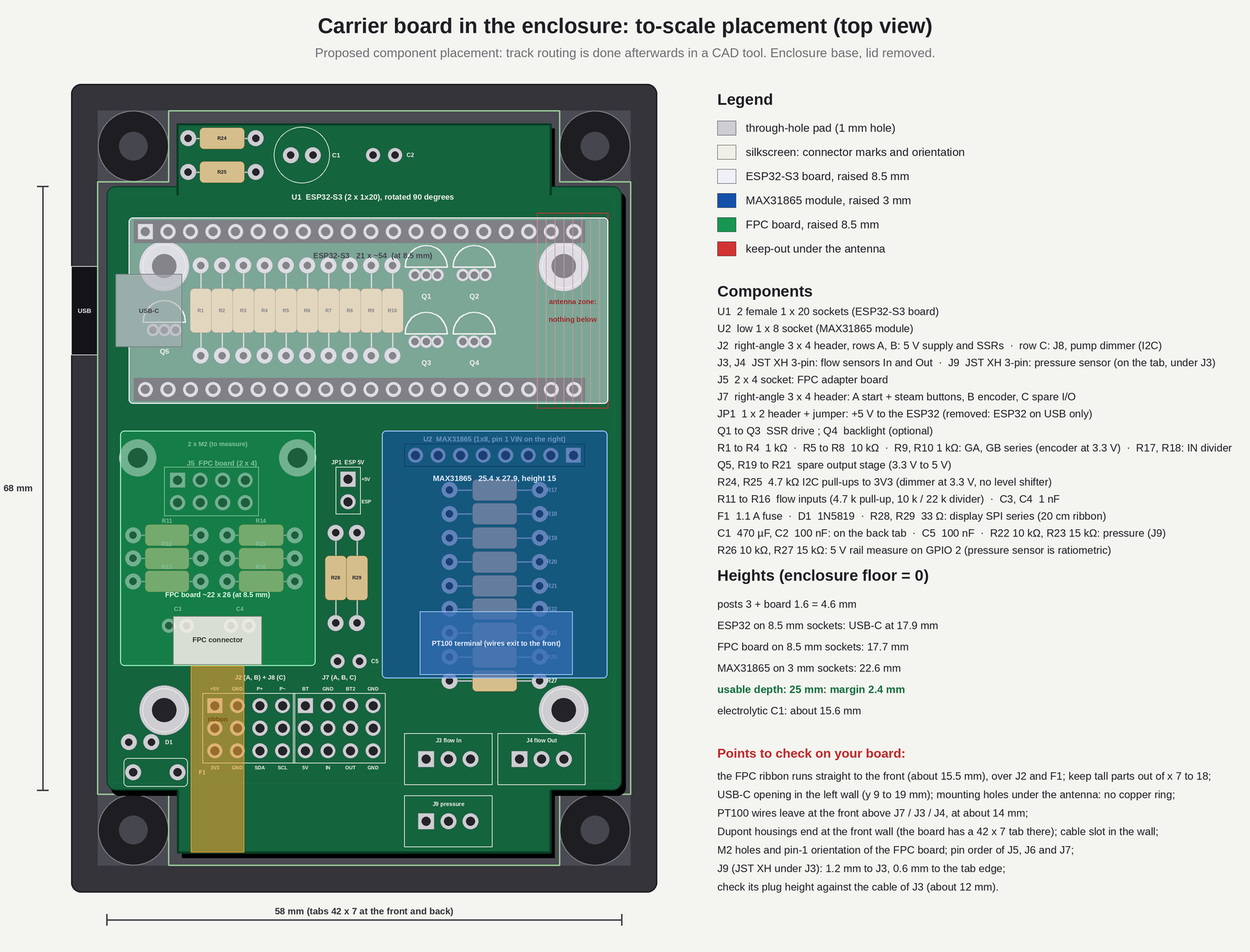
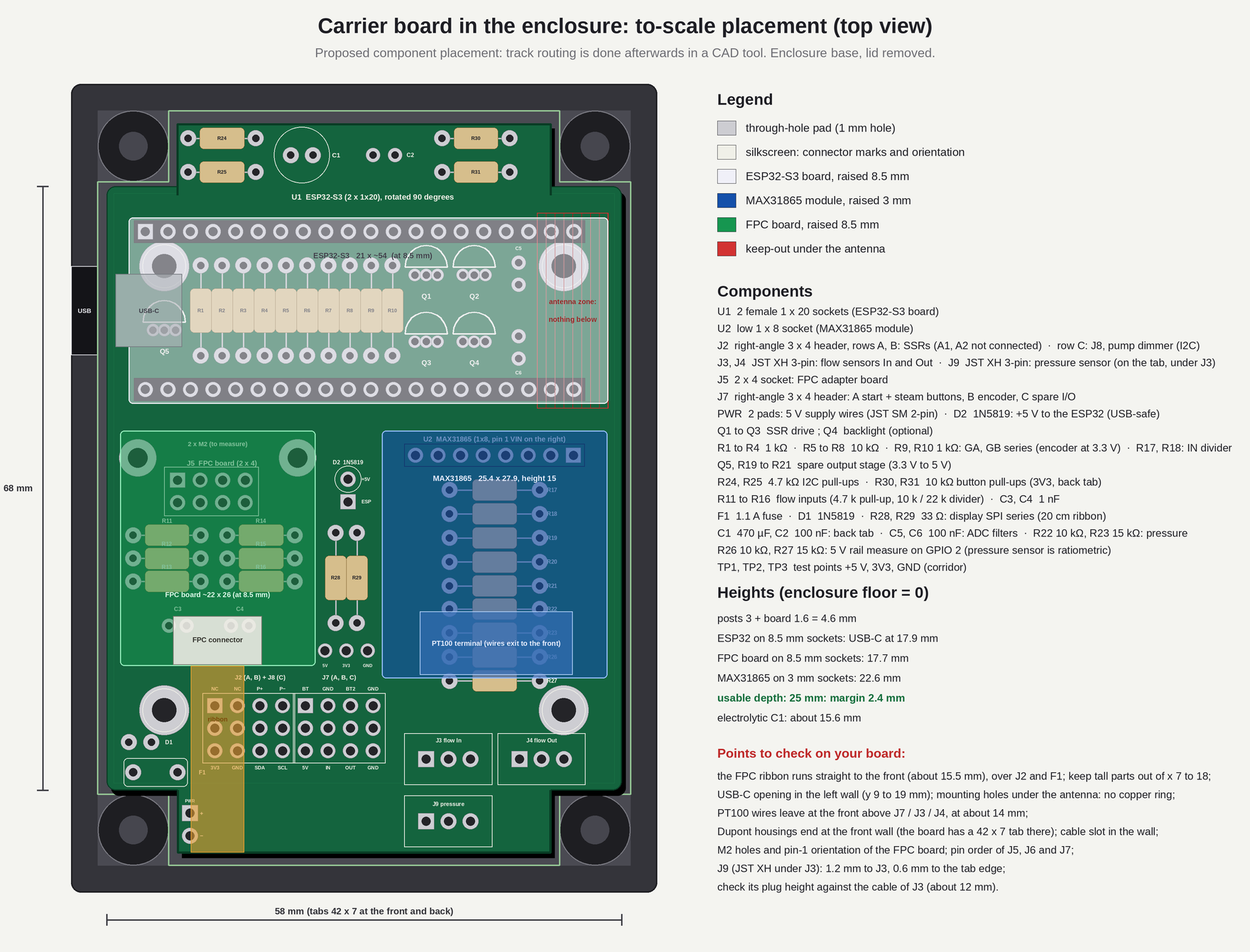
Supply on soldered wires (PWR pads, JST SM 2-pin), J2 A1/A2 not connected; D2 diode replaces JP1 (USB-safe); C5/C6 ADC filters next to GPIO 1/2; R30/R31 button pull-ups; test points TP1-TP3
Claude-Session: https://claude.ai/code/session_012AnZeUFZeKvHXGUDRfJG7Q

diff --git a/tools/board_placement.py b/tools/board_placement.py
@@ -128,6 +128,10 @@ for i, name in enumerate(["R1", "R2", "R3", "R4", "R5", "R6", "R7", "R8", "R9", 
 # Q1..Q4: TO-92 bodies are 4.8 mm wide, so two rows of two (pitch 5.4 mm), clear of R10 and of the antenna zone
 for name, (qx, qy) in zip(["Q1", "Q2", "Q3", "Q4"], [(36.0, 10.0), (41.4, 10.0), (36.0, 17.5), (41.4, 17.5)]):
     to92(qx, qy, name)
+# C5 / C6 100 nF (filters of the ADC inputs GPIO 1 / GPIO 2), standing right of Q2 / Q4, next to the GPIO 1 / 2 pins, just outside the antenna keep-out
+for yc in (9.85, 18.15):
+    tpad(46.4, yc - 1.25, ring=1.6, drill=0.8); tpad(46.4, yc + 1.25, ring=1.6, drill=0.8)
+text(d, X(46.4), Y(7.0), "C5", 7, SILK, True); text(d, X(46.4), Y(21.0), "C6", 7, SILK, True)
 # spare I/O conditioning, flat resistors under the MAX31865 (3 mm clearance): R17 4.7 k + R18 10 k (input divider), R19 1 k base, R20 4.7 k pull-up to 5 V, R21 10 k base to GND
 for i, name in enumerate(["R17", "R18", "R19", "R20", "R21"]):
     axial(43.7, 34.2 + i * 2.7, pitch=10.16, label=None)
@@ -179,14 +183,14 @@ for i, (name, xa) in enumerate([("C3", 7.0), ("C4", 14.0)]):
 # ---------------------------------------------------------------- front strip: J2 (2x4), J7 (1x6), polyfuse, diode, electrolytic, XH x2
 # Front edge: every right-angle header has its Dupont housings plugged in towards the front (about 9 mm of keep-out in front of the pads).
 # J2 + J8: 3 x 4 right-angle header (three stacked rows of Dupont housings, "courbe" 3 x 40 strip cut to length). From the back of the
-# board: row A (+5 V, GND, pump) and row B (boiler, valve) are J2; row C, the lowest one, is J8 (pump dimmer, I2C), bare for now.
+# board: row A (pump; A1, A2 not connected: the 5 V supply comes on the PWR pads) and row B (boiler, valve) are J2; row C, the lowest one, is J8 (pump dimmer, I2C), bare for now.
 ROWS = [58.5, 61.04, 63.58]
 for r_ in range(3):
     for c_ in range(4):
         tpad(12.2 + c_ * 2.54, ROWS[r_], square=(r_ == 0 and c_ == 0), ring=1.7, drill=1.0)
 rect(d, X(12.2) - 1.4 * K, Y(ROWS[0]) - 1.4 * K, X(12.2 + 3 * 2.54) + 1.4 * K, Y(ROWS[2]) + 1.4 * K, outline=SILK + (255,), width=2)
 silk(17.3, 55.3, "J2 (A, B) + J8 (C)", 9)
-for c_, lab in enumerate(["+5V", "GND", "P+", "P−"]):
+for c_, lab in enumerate(["NC", "NC", "P+", "P−"]):
     text(d, X(12.2 + c_ * 2.54), Y(ROWS[0]) - 1.9 * K, lab, 7, SILK, True)
 for c_, lab in enumerate(["3V3", "GND", "SDA", "SCL"]):
     text(d, X(12.2 + c_ * 2.54), Y(ROWS[2]) + 1.9 * K, lab, 7, SILK, True)
@@ -200,29 +204,39 @@ for c_, lab in enumerate(["BT", "GND", "BT2", "GND"]):
     text(d, X(22.4 + c_ * 2.54), Y(ROWS[0]) - 1.9 * K, lab, 7, SILK, True)
 for c_, lab in enumerate(["5V", "IN", "OUT", "GND"]):
     text(d, X(22.4 + c_ * 2.54), Y(ROWS[2]) + 1.9 * K, lab, 7, SILK, True)
-# JP1: 1 x 2 header + shunt in the corridor: +5 V board to the 5V pin of the ESP32 (fitted: normal; removed: the ESP32 on USB only)
-tpad(27.2, 33.0, square=True, ring=1.7, drill=1.0); tpad(27.2, 35.54, ring=1.7, drill=1.0)
-rect(d, X(27.2) - 1.4 * K, Y(33.0) - 1.4 * K, X(27.2) + 1.4 * K, Y(35.54) + 1.4 * K, outline=SILK + (255,), width=2)
-silk(27.2, 31.1, "JP1  ESP 5V", 8)
+# D2: 1N5819 standing in the former JP1 pads (corridor): +5 V board -> 5V pin of the ESP32 (cathode, square pad); keeps USB and board supply apart
+tpad(27.2, 33.0, ring=1.7, drill=1.0); tpad(27.2, 35.54, square=True, ring=1.7, drill=1.0)
+circ(d, X(27.2), Y(33.0), 1.5 * K, fill=None, outline=SILK + (255,), width=2)
+silk(27.2, 31.1, "D2  1N5819", 8)
 text(d, X(28.7), Y(33.0), "+5V", 7, SILK, True, 'lm'); text(d, X(28.7), Y(35.54), "ESP", 7, SILK, True, 'lm')
 # F1 polyfuse (radial, pitch 5) and D1 1N5819 (standing) in the front-left corner, in front of the mounting hole
 tpad(3.0, 66.0, ring=1.8, drill=0.9); tpad(8.0, 66.0, ring=1.8, drill=0.9)
 rrect(d, X(1.9), Y(64.4), X(9.1), Y(67.6), 6, outline=SILK + (255,), width=2); text(d, X(10.4), Y(66.0), "F1", 8, SILK, True, 'lm')
 tpad(2.5, 62.6, ring=1.8, drill=0.8); tpad(5.04, 62.6, ring=1.8, drill=0.8)
 text(d, X(6.6), Y(62.6), "D1", 8, SILK, True, 'lm')
+# PWR: the 5 V supply wires are soldered here, at the left end of the tab (+ square), towards a JST SM 2-pin plug; left of the J2 housings
+tpad(9.4, 70.6, square=True, ring=1.8, drill=1.0); tpad(9.4, 73.14, ring=1.8, drill=1.0)
+text(d, X(9.4), Y(69.25), "PWR", 6, SILK, True)
+text(d, X(10.5), Y(70.6), "+", 8, SILK, True, 'lm'); text(d, X(10.5), Y(73.14), "−", 8, SILK, True, 'lm')
 # C1 470 uF (radial 6.3 mm) and C2 100 nF, on the back tab (y -7 to 0), behind the ESP32
 circ(d, X(22.0), Y(-3.5), 3.15 * K, fill=None, outline=SILK + (255,), width=2)
 tpad(20.75, -3.5, ring=1.8, drill=0.8); tpad(23.25, -3.5, ring=1.8, drill=0.8); text(d, X(25.4), Y(-3.5), "C1", 9, SILK, True, 'lm')
 tpad(30.0, -3.5, ring=1.6, drill=0.8); tpad(32.5, -3.5, ring=1.6, drill=0.8); text(d, X(33.8), Y(-3.5), "C2", 8, SILK, True, 'lm')
-# corridor, below JP1: R28 / R29, 33 ohm series on the display SCK / MOSI (J5 branch only, 20 cm ribbon), vertical
+# corridor, below D2: R28 / R29, 33 ohm series on the display SCK / MOSI (J5 branch only, 20 cm ribbon), vertical
 for i, name in enumerate(["R28", "R29"]):
     axial_v(25.8 + i * 2.4, 44.1, label=name)
 # back tab: R24 / R25, 4.7 k I2C pull-ups to 3V3 (dimmer powered from 3.3 V: no level shifter), left of C1
 for i, name in enumerate(["R24", "R25"]):
     axial(13.0, -5.4 + i * 3.8, pitch=7.62, label=None)
     text(d, X(13.0), Y(-5.4 + i * 3.8), name, 7, INK, True)
-# C5 100 nF (pressure filter, taller than 3 mm so not under the MAX31865): in the corridor, below JP1
-tpad(26.0, 53.5, ring=1.6, drill=0.8); tpad(28.5, 53.5, ring=1.6, drill=0.8); text(d, X(29.8), Y(53.5), "C5", 8, SILK, True, 'lm')
+# test points in the corridor, below R28 / R29: TP1 +5 V, TP2 3V3, TP3 GND (bare pads, 1 mm holes)
+for i, lab in enumerate(["5V", "3V3", "GND"]):
+    tpad(24.6 + i * 2.4, 52.3, ring=1.6, drill=1.0)
+    text(d, X(24.6 + i * 2.4), Y(54.0), lab, 6, SILK, True)
+# back tab: R30 / R31, 10 k pull-ups to 3V3 for the start / steam buttons (GPIO 6 / 41), right of C2
+for i, name in enumerate(["R30", "R31"]):
+    axial(41.6, -5.4 + i * 3.8, pitch=7.62, label=None)
+    text(d, X(41.6), Y(-5.4 + i * 3.8), name, 7, INK, True)
 # JST XH x2: vertical headers, pins along x, the plugs come out upwards: no keep-out towards the front, away from the ribbon path (x 7 to 18)
 for k, (x0, name) in enumerate([(38.5, "J3 flow In"), (49.0, "J4 flow Out")]):
     for i in range(3):
@@ -294,24 +308,25 @@ text(d, lx, 410, "Components", 22, INK, True, 'lm')
 comp = [
     "U1  2 female 1 x 20 sockets (ESP32-S3 board)",
     "U2  low 1 x 8 socket (MAX31865 module)",
-    "J2  right-angle 3 x 4 header, rows A, B: 5 V supply and SSRs  ·  row C: J8, pump dimmer (I2C)",
+    "J2  right-angle 3 x 4 header, rows A, B: SSRs (A1, A2 not connected)  ·  row C: J8, pump dimmer (I2C)",
     "J3, J4  JST XH 3-pin: flow sensors In and Out  ·  J9  JST XH 3-pin: pressure sensor (on the tab, under J3)",
     "J5  2 x 4 socket: FPC adapter board",
     "J7  right-angle 3 x 4 header: A start + steam buttons, B encoder, C spare I/O",
-    "JP1  1 x 2 header + jumper: +5 V to the ESP32 (removed: ESP32 on USB only)",
+    "PWR  2 pads: 5 V supply wires (JST SM 2-pin)  ·  D2  1N5819: +5 V to the ESP32 (USB-safe)",
     "Q1 to Q3  SSR drive ; Q4  backlight (optional)",
     "R1 to R4  1 kΩ  ·  R5 to R8  10 kΩ  ·  R9, R10 1 kΩ: GA, GB series (encoder at 3.3 V)  ·  R17, R18: IN divider",
     "Q5, R19 to R21  spare output stage (3.3 V to 5 V)",
-    "R24, R25  4.7 kΩ I2C pull-ups to 3V3 (dimmer at 3.3 V, no level shifter)",
+    "R24, R25  4.7 kΩ I2C pull-ups  ·  R30, R31  10 kΩ button pull-ups (3V3, back tab)",
     "R11 to R16  flow inputs (4.7 k pull-up, 10 k / 22 k divider)  ·  C3, C4  1 nF",
     "F1  1.1 A fuse  ·  D1  1N5819  ·  R28, R29  33 Ω: display SPI series (20 cm ribbon)",
-    "C1  470 µF, C2  100 nF: on the back tab  ·  C5  100 nF  ·  R22 10 kΩ, R23 15 kΩ: pressure (J9)",
+    "C1  470 µF, C2  100 nF: back tab  ·  C5, C6  100 nF: ADC filters  ·  R22 10 kΩ, R23 15 kΩ: pressure",
     "R26 10 kΩ, R27 15 kΩ: 5 V rail measure on GPIO 2 (pressure sensor is ratiometric)",
+    "TP1, TP2, TP3  test points +5 V, 3V3, GND (corridor)",
 ]
 for i, t in enumerate(comp):
     text(d, lx, 438 + i * 24, t, 15, INK, False, 'lm')
 
-text(d, lx, 810, "Heights (enclosure floor = 0)", 22, INK, True, 'lm')
+text(d, lx, 834, "Heights (enclosure floor = 0)", 22, INK, True, 'lm')
 hs = [
     "posts 3 + board 1.6 = 4.6 mm",
     "ESP32 on 8.5 mm sockets: USB-C at 17.9 mm",
@@ -321,7 +336,7 @@ hs = [
     "electrolytic C1: about 15.6 mm",
 ]
 for i, t in enumerate(hs):
-    text(d, lx, 850 + i * 30, t, 15, INK if i != 4 else (20, 110, 60), i == 4, 'lm')
+    text(d, lx, 870 + i * 28, t, 15, INK if i != 4 else (20, 110, 60), i == 4, 'lm')
 
 text(d, lx, 1060, "Points to check on your board:", 18, (190, 40, 40), True, 'lm')
 chk = [

diff --git a/tools/board_schematic.py b/tools/board_schematic.py
@@ -32,8 +32,8 @@ def head(x, y, title, sub=None):
         T(x, y + 28, sub, F(15), GRY, 'lm')
 
 # ---- J2 + J8 : 3 x 4 right-angle header (3 stacked rows), J7 : 3 x 4
-head(60, 118, "J2 + J8: right-angle 3 x 4 male header", "rows A and B: J2 (one 2 x 4 housing, two ribbons of 4 wires); row C: J8")
-rowA = [("+5 V", RED), ("GND", DK), ("pump +", BRN), ("pump −", BRN)]
+head(60, 118, "J2 + J8: right-angle 3 x 4 male header", "rows A and B: J2 (one 2 x 4 housing; A1, A2 not connected); row C: J8")
+rowA = [("NC", LG), ("NC", LG), ("pump +", BRN), ("pump −", BRN)]
 rowB = [("boiler +", ORG), ("boiler −", ORG), ("valve +", YEL), ("valve −", YEL)]
 rowC = [("+3.3 V", RED), ("GND", DK), ("SDA", VIO), ("SCL", VIO)]
 x0, yA, yB, yC = 60, 186, 232, 278
@@ -43,11 +43,11 @@ for i, (lab, col) in enumerate(rowB):
     pin(x0 + i * 88, yB, lab, col, 14)
 for i, (lab, col) in enumerate(rowC):
     pin(x0 + i * 88, yC, lab, col, 14)
-T(x0 + 370, 196, "row A: 5 V supply + pump SSR (ribbon 1)", F(14, True), RED, 'lm')
+T(x0 + 370, 196, "row A: pump SSR (ribbon 1, 2 wires)", F(14, True), BRN, 'lm')
 T(x0 + 370, 242, "row B: boiler SSR + valve SSR (ribbon 2)", F(14, True), ORG, 'lm')
 T(x0 + 370, 288, "row C: J8 pump dimmer, RobotDyn (I2C)", F(14, True), VIO, 'lm')
-T(x0 + 370, 312, "a 2 x 4 housing can be plugged 180 degrees the wrong way:", F(13), GRY, 'lm')
-T(x0 + 370, 330, "mark it (paint dot on +5 V): no keyed header on a 3-row strip", F(13), GRY, 'lm')
+T(x0 + 370, 312, "5 V supply: 2 wires soldered on the PWR pads (JST SM 2-pin)", F(13, True), RED, 'lm')
+T(x0 + 370, 330, "mark the 2 x 4 housing (paint dot on A1): never one row too low", F(13), GRY, 'lm')
 
 head(60, 366, "J7: right-angle 3 x 4 male header")
 j7a = [("button", (90, 90, 96)), ("GND", DK), ("steam", (90, 90, 96)), ("GND", DK)]
@@ -59,7 +59,7 @@ for i, (lab, col) in enumerate(j7b):
     pin(60 + i * 88, 442, lab, col, 14)
 for i, (lab, col) in enumerate(j7c):
     pin(60 + i * 88, 488, lab, col, 14)
-T(440, 418, "row A: start button (2) + steam button (2)", F(14), GRY, 'lm')
+T(440, 418, "row A: start + steam buttons (10 k pull-ups on the board)", F(14), GRY, 'lm')
 T(440, 464, "row B: encoder (module order)", F(14), GRY, 'lm')
 T(440, 510, "row C: spare I/O (5 V, level-adapted in / out)", F(14), GRY, 'lm')
 
@@ -94,10 +94,10 @@ for i, (lab, col) in enumerate(mx):
 # ================================================================ 2. GPIO table
 gx = 860
 T(gx, 118, "ESP32-S3: pins used", F(22, True), INK, 'lm')
-rows = [("5V", "+5 V via JP1 (after diode and fuse)", RED), ("3V3", "display, MAX31865, dimmer, encoder", RED),
+rows = [("5V", "+5 V via D2 (after fuse and D1)", RED), ("3V3", "display, MAX31865, dimmer, encoder", RED),
         ("GPIO 17", "pump SSR drive", BRN), ("GPIO 18", "boiler SSR drive", ORG), ("GPIO 21", "valve SSR drive", YEL),
         ("GPIO 15", "flow In", BLU), ("GPIO 16", "flow Out", BLU), ("GPIO 1", "pressure sensor (ADC)", BLU), ("GPIO 2", "5 V rail measure (ADC)", RED),
-        ("GPIO 4 / 5", "encoder A / B", GRN), ("GPIO 6 / 41", "start / steam buttons", (90, 90, 96)),
+        ("GPIO 4 / 5", "encoder A / B", GRN), ("GPIO 6 / 41", "start / steam buttons (10 k pull-ups)", (90, 90, 96)),
         ("GPIO 47 / 42", "dimmer I2C: SDA / SCL", VIO),
         ("GPIO 11 / 12 / 13", "SPI: MOSI / SCK / MISO", VIO), ("GPIO 10", "display CS", VIO), ("GPIO 9 / 8", "display DC / RST", VIO),
         ("GPIO 14", "display BLK (direct, Q4 optional)", VIO), ("GPIO 7", "MAX31865 CS", VIO), ("GPIO 38", "spare input on J7 (5 V divider)", (150, 150, 156)), ("GPIO 39", "spare output on J7 (to 5 V, inverting)", (150, 150, 156))]
@@ -129,7 +129,7 @@ def chain(x, y, title, src, res, end, shunts, col):
 cy = 866
 chain(gx, cy, "Spare IN 38: 5 V to 3.3 V (encoder: 3.3 V, 1 k series)", "5 V in", "4.7 k", "GPIO 38", [(270, "10 k")], GRN)
 chain(gx, cy + 120, "Pressure input: 4.5 V to 2.7 V", "sensor", "10 k", "GPIO 1", [(250, "15 k"), (320, "100 nF")], BLU)
-chain(gx, cy + 240, "5 V rail measure (same ratio: pressure = signal / rail)", "+5 V rail", "10 k", "GPIO 2", [(250, "15 k")], RED)
+chain(gx, cy + 240, "5 V rail measure (same ratio: pressure = signal / rail)", "+5 V rail", "10 k", "GPIO 2", [(250, "15 k"), (320, "100 nF")], RED)
 T(gx, cy + 352, "Dimmer I2C: module powered from 3.3 V, no level shifter", F(14, True), VIO, 'lm')
 T(gx, cy + 374, "4.7 k pull-ups to 3V3 (R24, R25); SDA 47, SCL 42, 100 kHz", F(13), GRY, 'lm')
 T(gx, cy + 394, "ships in UART mode: switch it to I2C once", F(13), GRY, 'lm')
@@ -140,7 +140,7 @@ T(cx0, 118, "Circuits on the board", F(22, True), INK, 'lm')
 
 # power
 T(cx0, 160, "Power", F(17, True), RED, 'lm')
-L([(cx0, 200), (cx0 + 40, 200)], RED, 3); T(cx0 - 6, 200, "A1", F(13, True), RED, 'rm')
+L([(cx0, 200), (cx0 + 40, 200)], RED, 3); T(cx0 - 6, 200, "PWR +", F(13, True), RED, 'rm')
 RR(cx0 + 40, 188, cx0 + 118, 212, 4, fill=(250, 250, 240), outline=INK, width=2); T(cx0 + 79, 200, "fuse 1.1 A", F(11, True))
 L([(cx0 + 118, 200), (cx0 + 150, 200)], RED, 3)
 d.polygon([((cx0 + 150) * S, 188 * S), ((cx0 + 150) * S, 212 * S), ((cx0 + 180) * S, 200 * S)], fill=(250, 250, 240), outline=INK)
@@ -151,8 +151,8 @@ L([(cx0 + 215, 200), (cx0 + 215, 232)], RED, 2)
 L([(cx0 + 205, 232), (cx0 + 225, 232)], INK, 3); L([(cx0 + 205, 240), (cx0 + 225, 240)], INK, 3)
 L([(cx0 + 215, 240), (cx0 + 215, 262)], INK, 2); T(cx0 + 215, 276, "470 µF + 100 nF", F(11, True))
 
-T(cx0, 292, "JP1 (1 x 2 header + jumper): +5 V board -> ESP32 5V pin", F(12, True), RED, 'lm')
-T(cx0, 306, "fitted: normal; removed: the ESP32 is powered by its USB port", F(12), GRY, 'lm')
+T(cx0, 292, "D2 (1N5819, former JP1): +5 V board -> ESP32 5V pin", F(12, True), RED, 'lm')
+T(cx0, 306, "USB and board supply kept apart: USB can stay plugged", F(12), GRY, 'lm')
 
 # SSR driver
 T(cx0, 330, "SSR drive (x3)", F(17, True), BRN, 'lm')
@@ -209,7 +209,7 @@ T(cx0 + 20, 1310, "GPIO high -> OUT low; GPIO low -> OUT 5 V (invert in firmware
 # ================================================================ 4. notes
 T(60, 1140, "Design notes", F(22, True), INK, 'lm')
 notes = [
-    "JP1: fitted, the ESP32 takes its 5 V from the board; removed, from its USB port only (never fit it with USB plugged).",
+    "D2 (former JP1): the ESP32 is fed by the board or by its USB port, the two 5 V sources never tied together.",
     "The three voltage levels: +5 V board (after fuse and diode), 3.3 V from the ESP32-S3 board, common GND.",
     "The display module has its own backlight transistor: BLK is driven directly by GPIO 14 (stage Q4 optional).",
     "No regulator on the board: the 3.3 V (display, MAX31865, dimmer, encoder) comes from the ESP32-S3.",
@@ -217,6 +217,7 @@ notes = [
     "All parts are through-hole (TO-92, axial resistors, radial capacitors, DO-41): ordinary soldering iron.",
     "On the board: a ground plane, no copper under the ESP32 antenna, 4 mounting holes (45 x 50 mm).",
     "Silkscreen: name of each connector, pin 1 mark, and the signal of each pin (+5 V, GND, SSR +, SSR −, signal...).",
+    "Test points TP1 +5 V, TP2 3.3 V, TP3 GND in the corridor; buttons: 10 k pull-ups to 3.3 V (R30, R31).",
 ]
 for i, t in enumerate(notes):
     T(60, 1176 + i * 30, "• " + t, F(16), INK, 'lm')

diff --git a/tools/enclosure_overview.py b/tools/enclosure_overview.py
@@ -151,11 +151,10 @@ cuboid(ax0, ay0, top + HDR, 22, 26.5, 1.6, (22, 130, 70))
 cuboid(ax0 + 6, ay0 + 19.0, top + HDR + 1.6, 10, 5.5, 2.6, WHITE)                      # its FPC connector
 cuboid(ax0 + 1.0, ay0 + 3.1, top, 3.5, 3.5, HDR, (110, 110, 118))
 cuboid(ax0 + 17.5, ay0 + 3.1, top, 3.5, 3.5, HDR, (110, 110, 118))
-# JP1: 1 x 2 header with its shunt in the corridor (+5 V board to the 5V pin of the ESP32)
-cuboid(CX0 + 27.2 - 1.27, CY0 + 33.0 - 1.27, top, 2.54, 5.08, 2.5, BLACK)
-for yy in (33.0, 35.54):
-    cuboid(CX0 + 27.2 - 0.32, CY0 + yy - 0.32, top + 2.5, 0.64, 0.64, 6.0, GOLD)
-cuboid(CX0 + 27.2 - 1.2, CY0 + 33.0 - 1.2, top + 2.5, 2.4, 4.9, 5.5, (40, 40, 44))      # the shunt, in place
+# D2: 1N5819 standing in the former JP1 pads (corridor): +5 V board to the 5V pin of the ESP32
+cyl(CX0 + 27.2, CY0 + 33.0, 1.35, top, 5.2, (30, 30, 34))
+cuboid(CX0 + 27.2 - 0.3, CY0 + 33.0 - 0.3, top + 5.2, 0.6, 2.54 + 0.6, 0.6, (200, 200, 205))   # lead bent over to the second pad
+cuboid(CX0 + 27.2 - 0.3, CY0 + 35.54 - 0.3, top, 0.6, 0.6, 5.8, (200, 200, 205))
 # J2 + J8: 3 x 4 right-angle header (3 rows: A and B = J2, C = J8, the lowest), ONE 2 x 4 housing on rows A and B, one more on row C
 cuboid(CX0 + 12.2 - 1.27, CY0 + 57.7, top, 10.16, 7.8, 8.4, BLACK)
 cuboid(CX0 + 12.2 - 1.27 + 0.15, CY0 + 65.6, top + 2.9, 10.0, 8.6, 5.1, WHITE)
@@ -221,10 +220,14 @@ def riser_x(xc, yc, z0, z1, wires, color):
 
 
 Y0 = CY0 + 74.2
-# J2: one 2 x 4 housing, two ribbons of 4 wires (row A on top: 5 V, GND, pump; row B below: boiler, valve)
+# 5 V supply: two wires soldered on the PWR pads (left end of the tab), forward through the slot to a JST SM 2-pin plug
+cP = (205, 35, 35)
+run_x(CX0 + 9.4, CY0 + 71.9, Y_END, top + 1.0, 2, cP); cable("5 V supply (JST SM 2-pin)", "PWR", 2, cP, (CX0 + 9.4, Y_END, top + 1.0))
+# J2: one 2 x 4 housing (row A on top: pump, A1 / A2 empty; row B below: boiler, valve)
 xj2 = CX0 + 12.2 + 1.5 * 2.54
-cA, cB = (205, 35, 35), (232, 130, 30)
-run_x(xj2, Y0, Y_END, top + 2.9 + 3.82, 4, cA); cable("row A: 5 V, GND, pump", "J2", 4, cA, (xj2, Y_END, top + 2.9 + 3.82))
+xa = CX0 + 12.2 + 2.5 * 2.54
+cA, cB = (150, 90, 40), (232, 130, 30)
+run_x(xa, Y0, Y_END, top + 2.9 + 3.82, 2, cA); cable("row A: pump", "J2", 2, cA, (xa, Y_END, top + 2.9 + 3.82))
 run_x(xj2, Y0, Y_END, top + 2.9 + 1.28, 4, cB); cable("row B: boiler, valve", "J2", 4, cB, (xj2, Y_END, top + 2.9 + 1.28))
 # J7: start button (2 wires), steam button (2 wires), encoder (4 wires, middle row), spare I/O (4 wires, lowest row)
 xb, xb2, xe, xs = CX0 + 22.4 + 1.27, CX0 + 22.4 + 6.35, CX0 + 22.4 + 3.81, CX0 + 22.4 + 3.81
@@ -309,7 +312,7 @@ pl(ax0 + 11, ay0 + 22, top + HDR + 4.2, 330, 520, "FPC connector pre-soldered")
 pl(sx0, sy0 + 50, FLOOR + 3, 330, 640, "3 mm small posts (45 x 50)")
 pl(BX - WALL - 4, BY - WALL - 4, BASE_H, 1560, 520, "8 mm round corner posts")
 pl(CX0 + 30, BY, FW, 1560, 640, "slot to cut in the front wall (cables)")
-pl(CX0 + 27.2, CY0 + 34, top + 8.5, 330, 740, "JP1: jumper, +5 V to the ESP32")
+pl(CX0 + 27.2, CY0 + 34, top + 5.5, 330, 740, "D2: diode, +5 V to the ESP32")
 
 # numbered tags at the cable ends, staggered so that they do not overlap
 ends = []

diff --git a/docs/carrier_spec.md b/docs/carrier_spec.md
@@ -5,40 +5,41 @@ All **through-hole** parts (no SMD soldering). Related files: `images/board_plac
 ## Dimensions and mounting
 - Enclosure interior (measured): **60 mm wide x 85 mm long**. The four big posts are round, **8 mm in diameter** (8 x 8 mm footprint), in the corners. The small posts (3 mm high) are at **45 x 50 mm**, centred.
 - The posts leave a plus-shaped usable area: **60 x 69 mm** between the posts along the long sides (y from 8 to 77) and **44 mm wide over the full 85 mm length** between the end posts.
-- Board: **58 x 68 mm main body** (0.5 to 1 mm of margin all round) **plus a 42 x 7 mm tab on the cable (front) side and a 42 x 7 mm tab at the back, behind the ESP32** (x 8 to 50), so the board is 82 mm long at the tabs; two layers, ground plane. The tab lets the Dupont housings of J2 / J7 and the JST XH plugs sit on the board up to the front wall; the back tab holds C1 (470 µF, x 22, y −3.5), C2 (100 nF, x 31, y −3.5), and the two 4.7 kΩ I2C pull-ups to 3.3 V R24 / R25 (left of C1), which frees the central corridor; keep it clear of the antenna zone (x 48.5 and beyond).
+- Board: **58 x 68 mm main body** (0.5 to 1 mm of margin all round) **plus a 42 x 7 mm tab on the cable (front) side and a 42 x 7 mm tab at the back, behind the ESP32** (x 8 to 50), so the board is 82 mm long at the tabs; two layers, ground plane. The tab lets the Dupont housings of J2 / J7 and the JST XH plugs sit on the board up to the front wall; the back tab holds C1 (470 µF, x 22, y −3.5), C2 (100 nF, x 31, y −3.5), the two 4.7 kΩ I2C pull-ups to 3.3 V R24 / R25 (left of C1) and the two 10 kΩ button pull-ups to 3.3 V R30 / R31 (right of C2), which frees the central corridor; keep it clear of the antenna zone (x 48.5 and beyond).
 - 4 mounting holes on the **3 mm** small posts, **45 x 50 mm** spacing, centred in the interior (board coordinates (6.5, 9), (51.5, 9), (6.5, 59), (51.5, 59)).
 - Usable depth **25 mm**: posts 3 + board 1.6 = 4.6 mm; ESP32 on 8.5 mm sockets (USB-C at 17.9 mm); FPC adapter board on 8.5 mm sockets (17.7 mm); MAX31865 on low 3 mm sockets (22.6 mm, 2.4 mm margin).
 - **ESP32-S3 rotated 90 degrees** (long side across the board, at the back, y 3 to 25 mm): **USB-C towards the left wall**, with an opening in that wall at y 9 to 19 mm (the connector is then far from the 8 mm corner posts). The antenna end is on the right (x 48.5 to 56.5 mm).
-- **Under the ESP32 (between the two socket rows, 8.5 mm clearance):** vertical axial resistors R1 to R10, then Q1 to Q4 on the right, in two rows of two (TO-92 bodies are 4.8 mm wide); Q5 (spare output) at the left, next to the USB end. The two small standoffs at the back (6.5, 9) and (51.5, 9) are under the ESP32; the one on the right is under the antenna, so use a **non-plated hole with no copper ring** there, and a **nylon M2.5 screw** (a metal screw right under the antenna detunes it).
-- **Connector rows:** J8 is the lowest row of the J2 header; J7 is also a 3 x 4 right-angle strip (row A: start and steam buttons, row B: encoder, row C: spare I/O); each row has its own Dupont housing, rows are 2.54 mm apart vertically, the housings are not keyed: mind the order. J8 and J9 both have their plug and cable. The corridor between the FPC board and the MAX31865 holds JP1, R28 / R29 (33 Ω, display SPI) and C5.
-- **Below the ESP32, side by side:** the FPC adapter board on the **left** (x 1.5 to 23.5 mm, connector towards the front, flow-input parts R11 to R16 and C3, C4 under it), the MAX31865 on the **right** (x 31 to 56.4 mm, rotated 180 degrees: header on its rear edge, pin 1 VIN on the right, PT100 terminal block facing the front), and a corridor between them (x 23.5 to 31 mm) holding JP1, R28, R29 and C5.
-- **Front connector row:** right-angle headers with their Dupont housings need about **9 mm in front of the pads** (keep-out, nothing else there); J2 and J7 are on the 42 x 7 mm tab, the vertical JST XH J3 and J4 at the front right, F1 and D1 in the front-left corner. A cable slot is needed in the front wall (housings end about 1 mm from it).
-- **All cables leave through the front** (J2, J7, J8, J3, J4, J9, the PT100 wires and the display ribbon). Only the USB-C cable leaves through the left wall.
+- **Under the ESP32 (between the two socket rows, 8.5 mm clearance):** vertical axial resistors R1 to R10, then Q1 to Q4 on the right, in two rows of two (TO-92 bodies are 4.8 mm wide); Q5 (spare output) at the left, next to the USB end. C5 and C6 (100 nF, filters of the ADC inputs GPIO 1 and GPIO 2) stand right of Q2 / Q4, at x 46.4, close to the GPIO 1 / 2 pins and just outside the antenna keep-out. The two small standoffs at the back (6.5, 9) and (51.5, 9) are under the ESP32; the one on the right is under the antenna, so use a **non-plated hole with no copper ring** there, and a **nylon M2.5 screw** (a metal screw right under the antenna detunes it).
+- **Connector rows:** J8 is the lowest row of the J2 header; J7 is also a 3 x 4 right-angle strip (row A: start and steam buttons, row B: encoder, row C: spare I/O); each row has its own Dupont housing, rows are 2.54 mm apart vertically, the housings are not keyed: mind the order. J8 and J9 both have their plug and cable. The corridor between the FPC board and the MAX31865 holds D2 (ESP32 supply diode), R28 / R29 (33 Ω, display SPI) and the test points TP1 to TP3.
+- **Below the ESP32, side by side:** the FPC adapter board on the **left** (x 1.5 to 23.5 mm, connector towards the front, flow-input parts R11 to R16 and C3, C4 under it), the MAX31865 on the **right** (x 31 to 56.4 mm, rotated 180 degrees: header on its rear edge, pin 1 VIN on the right, PT100 terminal block facing the front), and a corridor between them (x 23.5 to 31 mm) holding D2, R28, R29 and TP1 to TP3.
+- **Front connector row:** right-angle headers with their Dupont housings need about **9 mm in front of the pads** (keep-out, nothing else there); J2 and J7 are on the 42 x 7 mm tab, the vertical JST XH J3 and J4 at the front right, F1 and D1 in the front-left corner, and the **PWR pads** (5 V supply wires, see Circuits) at the left end of the tab (x 9.4, y 70.6 and 73.1), left of the J2 housings. A cable slot is needed in the front wall (housings end about 1 mm from it).
+- **All cables leave through the front** (the 5 V supply wires, J2, J7, J8, J3, J4, J9, the PT100 wires and the display ribbon). Only the USB-C cable leaves through the left wall.
 - **Display ribbon:** the FPC adapter board is rotated so that its connector faces the front: the flat ribbon (about 6 mm wide, at about 15.5 mm) runs **straight to the front** between x 7 and 18 mm, above J2's housings (10.5 mm) and F1; no tall part (JST XH plugs reach about 16 mm) may sit in that column. Nothing crosses the MAX31865 any more.
-- **Cables:** small flat ribbons (Dupont wires side by side), about **1.5 mm per wire** (4 wires = 6 mm, 3 wires = 4.5 mm, 2 wires = 3 mm), 1.3 mm thick. In the 3D view the cables are numbered 1 to 12 (J2 x2, J7 x4, J8, J3, J4, J9, PT100 probe, display ribbon); J3 / J4 leave their plugs upwards at about 12 mm and the two thin PT100 wires (0.8 mm, on the two middle terminals of the MAX31865 block) at about 15 mm; all go through the front slot. J9 (pressure sensor, 3 wires = 4.5 mm) leaves its plug upwards at about 14 mm, like J3 / J4. J8 (pump dimmer, 4 wires = 6 mm) comes out of the lowest housing of the J2 header, under the two J2 ribbons.
+- **Cables:** small flat ribbons (Dupont wires side by side), about **1.5 mm per wire** (4 wires = 6 mm, 3 wires = 4.5 mm, 2 wires = 3 mm), 1.3 mm thick. In the 3D view the cables are numbered 1 to 13 (5 V supply, J2 x2, J7 x4, J8, J3, J4, J9, PT100 probe, display ribbon); J3 / J4 leave their plugs upwards at about 12 mm and the two thin PT100 wires (0.8 mm, on the two middle terminals of the MAX31865 block) at about 15 mm; all go through the front slot. J9 (pressure sensor, 3 wires = 4.5 mm) leaves its plug upwards at about 14 mm, like J3 / J4. J8 (pump dimmer, 4 wires = 6 mm) comes out of the lowest housing of the J2 header, under the two J2 ribbons.
 - The spare-I/O resistors R17 to R21 are flat resistors under the MAX31865 (3 mm clearance, enough for axial 1/4 W parts).
 - No copper and no component under the ESP32 antenna (the end of the ESP32 board opposite the USB-C). The last socket pads at that end (GPIO 01 / 02 on one row, 45 / 46 on the other) fall in or next to the keep-out: route their traces (GPIO 1 pressure, GPIO 2 rail measure) straight away from the antenna, towards the USB end, and stop the ground plane at x 48.5.
 
 ## Connectors
 | Ref | Type | Role |
 |---|---|---|
-| J2 | rows A and B of a **3 x 4 right-angle male header** (one 2 x 4 female Dupont housing, two ribbons of 4 wires) | 5 V supply + 3 SSRs |
+| J2 | rows A and B of a **3 x 4 right-angle male header** (one 2 x 4 female Dupont housing; A1 and A2 not connected) | 3 SSRs (pump on row A; boiler, valve on row B) |
 | J3, J4 | JST XH 3-pin, vertical, rotated (real pitch 2.5 mm) | flow sensors In (USN-HS06PD) and Out (Digmesa Nano) |
 | J5 | 2 x 4 female socket | FPC adapter board (8 pins, ribbon to the remote display) |
 | J6 | 1 x 8 female socket (low, 3 mm) | MAX31865 module |
 | J7 | a **3 x 4 right-angle male header** | row A: start button + steam-mode button; row B: encoder (powered from **3.3 V**); row C: 4 spare I/O pins (+5 V, level-adapted input, level-adapted output, GND) |
 | J8 | row C (the lowest) of the J2 header, 4 pins | RobotDyn 4 A pump dimmer, **I2C** (powered from **3.3 V**, no level shifter) |
 | J9 | JST XH 3-pin, vertical, on the tab right under J3 (centre x 38.5, y 71.5) | pressure sensor 0.5 to 4.5 V, 0 to 12 bar (powered from 5 V) |
-| JP1 | 1 x 2 male header + shunt jumper | +5 V board to the 5V pin of the ESP32 (see Circuits) |
+| PWR | 2 solder pads (+5 V square, GND), 1.0 mm holes, at the left end of the tab | 5 V supply: two wires soldered to the board, ending in a JST SM 2-pin plug towards the supply |
+| D2 | 1N5819 Schottky diode, standing, in the former JP1 pads | +5 V board to the 5V pin of the ESP32 (see Circuits) |
 | ESP | 2 x 1 x 20 female sockets | ESP32-S3 board (21 mm wide, measured; about 54 mm long; 2 x 20 pins, rows 17.78 mm apart, confirmed) |
 
 ### J2 (rows A and B of the 3 x 4 header: row A at the back, row B below it, row C = J8 at the bottom; pin 1 on the left)
 | | 1 | 2 | 3 | 4 |
 |---|---|---|---|---|
-| A | +5 V | GND | pump + | pump − |
+| A | not connected | not connected | pump + | pump − |
 | B | boiler + | boiler − | valve + | valve − |
 
-**One 2 x 4 Dupont housing**, two ribbons of 4 wires (one per row): ribbon 1 = 5 V supply and pump SSR, ribbon 2 = boiler SSR and valve SSR. Warning: an unkeyed 2 x 4 housing can be plugged 180 degrees the wrong way round (+5 V would land on the valve SSR "−" input and so on). A shrouded (keyed) header is not possible here, because J2 shares a 3-row strip with J8: **mark the housing and the header** (a paint dot on pin A1, +5 V, on both, and the arrow on the silkscreen). If you want a real mechanical key later, move the supply and the SSRs to JST XH connectors.
+**One 2 x 4 Dupont housing**: ribbon 1 (row A) = pump SSR, 2 wires on A3 / A4 (A1 and A2 stay empty, not connected); ribbon 2 (row B) = boiler SSR and valve SSR. **The 5 V supply no longer goes through J2** (it comes on the PWR pads), so a housing plugged 180 degrees the wrong way only puts the SSR inputs in reverse: nothing switches on, and no supply voltage can reach the ESP32 pins. The remaining risk is a housing pushed **one row too low** (on rows B and C): ribbon 2 would then land on J8 (+3.3 V, GND) and could switch the boiler SSR on. A shrouded (keyed) header is not possible on a 3-row strip: **mark the housing and the header** (a paint dot on A1 on both, and the arrow on the silkscreen).
 
 ### J7 (3 x 4 right-angle header: three stacked rows of Dupont housings)
 | | 1 | 2 | 3 | 4 |
@@ -47,7 +48,7 @@ All **through-hole** parts (no SMD soldering). Related files: `images/board_plac
 | Row B (middle) | GA (GPIO 4) | GB (GPIO 5) | **+3.3 V** | GND |
 | Row C (lower) | **+5 V** | **IN (GPIO 38)** | **OUT (GPIO 39)** | **GND** |
 
-Housings: row A = two 2-pin (start button, steam-mode button: dry contacts to GND, internal pull-ups, debounce in firmware); row B = 4-pin (CJMCU-111 encoder, in the module's own order: GA, GB, VCC = **+3.3 V**, GND). The CJMCU-111 module has only these four pins (photo): GA, GB, VCC, GND; its push button is carried by the GA line, so there is no separate push wire (the firmware's encoder library recognises the push from the GA edges, with the 0 Ω hack on the module's push resistor). Row C = 4-pin (**spare I/O: +5 V, IN, OUT, GND**). Three stacked rows keep J7 only about 10 mm wide, so it stays well clear of J3 / J4.
+Housings: row A = two 2-pin (start button, steam-mode button: dry contacts to GND, 10 kΩ pull-ups to 3.3 V on the board, R30 and R31, debounce in firmware); row B = 4-pin (CJMCU-111 encoder, in the module's own order: GA, GB, VCC = **+3.3 V**, GND). The CJMCU-111 module has only these four pins (photo): GA, GB, VCC, GND; its push button is carried by the GA line, so there is no separate push wire (the firmware's encoder library recognises the push from the GA edges, with the 0 Ω hack on the module's push resistor). Row C = 4-pin (**spare I/O: +5 V, IN, OUT, GND**). Three stacked rows keep J7 only about 10 mm wide, so it stays well clear of J3 / J4.
 
 **Spare IN (GPIO 38), 5 V to 3.3 V:** 4.7 kΩ in series (R17) to the GPIO and 10 kΩ from the GPIO to GND (R18): a 5 V signal becomes 3.4 V. Input only. For a 3.3 V source, replace R17 by a 0 Ω link and leave R18 out (the divider would give only 2.2 V, below the input-high threshold of about 2.5 V).
 
@@ -56,7 +57,7 @@ Housings: row A = two 2-pin (start button, steam-mode button: dry contacts to GN
 GPIO 38 and 39 are broken out on your board (silkscreen) and are neither strapping, PSRAM, flash nor USB pins.
 
 ### Encoder and 5 V input protection
-The ESP32-S3 only accepts 3.3 V. **The CJMCU-111 encoder is powered from 3.3 V** (J7 row B, VCC = 3V3). Measured on the module: **6.6 kΩ between GA (or GB) and VCC**, made of 3.3 kΩ resistors (marked on the module): pull-up plus series resistor; the module is passive (mechanical contacts and resistors), so it works at 3.3 V even though its data sheet gives 5 V (4.5 to 5.5 V). With a 5 V supply, these 6.6 kΩ in series with a 4.7 kΩ / 10 kΩ divider would only give about 2.3 V at the GPIO, below the ESP32 input-high threshold (about 2.5 V): that is why the encoder is not powered from 5 V. GA and GB go to GPIO 4 / 5 through **1 kΩ series resistors** (R9, R10, protection only, no divider). The spare GPIO 38 keeps its divider (a real 5 V input): 4.7 kΩ in series to the GPIO, then 10 kΩ from the GPIO to GND (5 V becomes 3.4 V), R17 / R18. **Push button of the knob:** with the 3.3 kΩ pull-up and the module's 3 kΩ push resistor, a push only brings GA down to about 1.6 V, which is not a low level: the **0 Ω hack** (bridge the push resistor, pins 4 and 1 of the encoder) is required for the push to be seen. The start button (J7 row A, "button") is a dry contact to GND: it needs no divider, only the ESP32 internal pull-up; bounce is handled in the firmware (no capacitor). 
+The ESP32-S3 only accepts 3.3 V. **The CJMCU-111 encoder is powered from 3.3 V** (J7 row B, VCC = 3V3). Measured on the module: **6.6 kΩ between GA (or GB) and VCC**, made of 3.3 kΩ resistors (marked on the module): pull-up plus series resistor; the module is passive (mechanical contacts and resistors), so it works at 3.3 V even though its data sheet gives 5 V (4.5 to 5.5 V). With a 5 V supply, these 6.6 kΩ in series with a 4.7 kΩ / 10 kΩ divider would only give about 2.3 V at the GPIO, below the ESP32 input-high threshold (about 2.5 V): that is why the encoder is not powered from 5 V. GA and GB go to GPIO 4 / 5 through **1 kΩ series resistors** (R9, R10, protection only, no divider). The spare GPIO 38 keeps its divider (a real 5 V input): 4.7 kΩ in series to the GPIO, then 10 kΩ from the GPIO to GND (5 V becomes 3.4 V), R17 / R18. **Push button of the knob:** with the 3.3 kΩ pull-up and the module's 3 kΩ push resistor, a push only brings GA down to about 1.6 V, which is not a low level: the **0 Ω hack** (bridge the push resistor, pins 4 and 1 of the encoder) is required for the push to be seen. The start and steam buttons (J7 row A) are dry contacts to GND: no divider, but a **10 kΩ pull-up to 3.3 V** on the board (R30 on GPIO 6, R31 on GPIO 41, on the back tab), because the ESP32 internal pull-up (about 45 kΩ) is too weak for wires running near the pump's 230 V wiring; bounce is handled in the firmware (no capacitor). 
 
 ### J8 (pump dimmer, row C of the J2 header, 4 pins in the module's order)
 | 1 | 2 | 3 | 4 |
@@ -89,9 +90,9 @@ Same order as J3 / J4:
 
 The footprint (9.9 x 5.8 mm, pins along x, plug upwards, real pitch 2.5 mm) is centred at x 38.5, y 71.5 mm (J3 at x 38.5 and J4 at x 49, both at y 64.5), inside the 42 x 7 mm tab (y 68 to 75): **only 1.2 mm to J3 and 0.6 mm to the tab edge**, and 1.5 mm from the front wall. Check the plug heights against the cable of J3 (about 12 mm); one more 3-wire cable (4.5 mm) goes through the front slot.
 
-G1/4 sensor, 0 to 12 bar, 0.5 to 4.5 V output. The signal goes through a divider, 10 kΩ (series) / **15 kΩ** (to GND), which brings 4.5 V down to 2.7 V (margin below the top of the ADC range, about 3.1 V, where it is least linear), plus 100 nF on GPIO 1 (ADC1, 12 dB attenuation); on the board: R22 (10 kΩ) and R23 (15 kΩ) flat under the MAX31865 below R21, C5 (100 nF) in the corridor, below JP1.
+G1/4 sensor, 0 to 12 bar, 0.5 to 4.5 V output. The signal goes through a divider, 10 kΩ (series) / **15 kΩ** (to GND), which brings 4.5 V down to 2.7 V (margin below the top of the ADC range, about 3.1 V, where it is least linear), plus 100 nF on GPIO 1 (ADC1, 12 dB attenuation); on the board: R22 (10 kΩ) and R23 (15 kΩ) flat under the MAX31865 below R21, and C5 (100 nF) under the ESP32, right next to the GPIO 1 pin (x 46.4).
 
-**The sensor is ratiometric** (0.5 to 4.5 V = 10 to 90 % of its supply), and its supply is the board's +5 V rail, which sits at about 4.6 V after F1 and D1 and moves with the load. The rail is therefore measured on **GPIO 2** through the same 10 kΩ / 15 kΩ ratio (R26, R27, below R23), and the firmware uses the ratio of the two readings: ratio = ADC(GPIO 1) / ADC(GPIO 2); pressure in bar = (ratio − 0.1) / 0.8 x 12. This cancels the rail variations. Average the readings (the ESP32 ADC is noisy and not very linear at the ends). The pump can reach about 19 bar at zero flow, above the sensor's 12 bar range: make sure the machine's pressure relief valve limits the pressure at the sensor tap (and check the sensor's overpressure rating).
+**The sensor is ratiometric** (0.5 to 4.5 V = 10 to 90 % of its supply), and its supply is the board's +5 V rail, which sits at about 4.6 V after F1 and D1 and moves with the load. The rail is therefore measured on **GPIO 2** through the same 10 kΩ / 15 kΩ ratio (R26, R27, below R23) and the same 100 nF filter (C6, next to C5, by the GPIO 2 pin), and the firmware uses the ratio of the two readings: ratio = ADC(GPIO 1) / ADC(GPIO 2); pressure in bar = (ratio − 0.1) / 0.8 x 12. This cancels the rail variations. Average the readings (the ESP32 ADC is noisy and not very linear at the ends). The pump can reach about 19 bar at zero flow, above the sensor's 12 bar range: make sure the machine's pressure relief valve limits the pressure at the sensor tap (and check the sensor's overpressure rating).
 
 ### J3 / J4 (JST XH 3-pin)
 1 = +5 V, 2 = signal, 3 = GND. The exact order comes from the sensor cable (often red / yellow / black). J3, J4 and J9 have the same pinout: plugging a sensor into the wrong one of the three is harmless (only the firmware reading is wrong).
@@ -119,12 +120,13 @@ Silkscreen read on the photo, left column from the USB-C end: GND, 5V, G48, BOOT
 5V, 3V3, GND; GPIO 17 (pump SSR), 18 (boiler SSR), 21 (valve SSR); 15 (flow In), 16 (flow Out); 4 / 5 (encoder); 6 (start button); 41 (steam button); 11 / 12 / 13 (SPI MOSI / SCK / MISO); 10 (display CS); 9 / 8 (display DC / RST); 14 (backlight); 7 (MAX31865 CS); 47 / 42 (dimmer, I2C SDA / SCL); 1 (pressure, ADC); 2 (5 V rail measure, ADC); 38 / 39 (spare IN / OUT, on J7). Avoided: 0, 3, 45, 46, 19, 20, 35 to 37 (not broken out on this board), 48 (board LED G48).
 
 ## Circuits
-- **Power:** supply **5.1 V, 2 A** (measured by you); after F1 and D1 the rail is about 4.6 to 4.7 V. J2 A1 (+5 V) → 1.1 A resettable fuse → 1N5819 diode (reverse protection) → +5 V rail (470 µF + 100 nF) → **JP1** → 5V pin of the ESP32. The 3.3 V comes from the ESP32 board. **JP1** (1 x 2 header + shunt jumper): **fitted = normal operation**, the ESP32 takes its 5 V from the external supply through the Dupont connector; **removed = the ESP32 is powered by its USB port only** (the rest of the board stays on the external supply). Never fit JP1 while a USB cable is plugged in: the two 5 V sources would be tied together (and the supply could back-feed the computer).
+- **Power:** supply **5.1 V, 2 A** (measured by you), brought by **two wires soldered to the PWR pads** (+5 V on the square pad, GND), ending in a **JST SM 2-pin** plug towards the supply (polarised and latching); hold the wires with a dab of hot glue or silicone next to the pads (pump vibrations). PWR + → 1.1 A resettable fuse → 1N5819 (D1, reverse protection) → +5 V rail (about 4.6 to 4.7 V; 470 µF + 100 nF) → **D2 (1N5819)** → 5V pin of the ESP32. The 3.3 V comes from the ESP32 board. **D2 replaces the former jumper JP1** (same two pads, diode standing, cathode on the ESP32 side): the ESP32 takes its power from the board or from its USB port, and the diode keeps the two 5 V sources apart, so the **USB cable can be plugged with the machine on** (flashing, logs) without back-feeding the computer. The ESP32 5V pin then sees about 4.3 V from the board, enough for its 3.3 V regulator. With the USB cable alone, the ESP32, the display, the MAX31865, the encoder and the dimmer logic run; the 5 V side (SSRs, sensors) stays off.
 - **SSR (x3):** GPIO → 1 kΩ → 2N2222A base; 10 kΩ base → GND; SSR "+" input to the +5 V rail, "−" input to the collector; emitter to GND. The SSR input receives about 4.4 V (rail about 4.6 V minus about 0.2 V across the transistor), well above the usual 3 V minimum of a DC-input SSR.
 - **Flow sensor (x2):** signal → **4.7 kΩ to +5 V**; signal → **10 kΩ** → GPIO; GPIO → **22 kΩ** → GND; 1 nF GPIO → GND. With a 5 V push-pull output the GPIO sees 5 x 22 / 32 = 3.4 V; with an open collector the pull-up is loaded by the divider and the GPIO sees 5 x 22 / (4.7 + 10 + 22) = 3.0 V; with a sensor that has its own internal pull-up, between the two. (The former values, 10 kΩ pull-up and 4.7 kΩ / 10 kΩ divider, gave only 2.0 V with an open collector, below the ESP32 input-high threshold of about 2.5 V.) The low level (0.5 V max at the sensor) gives under 0.35 V.
 - **Flow In sensor (J3): USN-HS06PD** (Hall sensor, 6 mm tube, 0.1 to 1.5 l/min, F (Hz) = 200 x Q (l/min), i.e. 12,000 pulses per litre, 300 Hz max; supply 5 to 24 V, under 10 mA; output high at least 4.5 V and low at most 0.5 V at 5 V; duty cycle 50 ± 10 %; -20 to 60 °C; **working pressure under 0.8 MPa (8 bar)**, so it must stay on the low-pressure side, between the tank and the pump; XH 2.54 plug, wire order varies by batch: check it). Its lower limit, 0.1 l/min = 1.7 ml/s, is below the pump flow during an extraction (about 4 ml/s measured at the inlet), so it works in range.
 - **Flow Out sensor (J4): Digmesa Nano** (brass, 1.2 mm nozzle; 31,100 pulses per litre, linear 0.83 to 8.3 ml/s, so 258 Hz max; ±2 %; 0 to 100 °C; 20 bar), on the boiler side. Its turbine counts in both flow directions: the firmware ignores its pulses while the pump is stopped. Its output type does not matter, the input circuit above suits it.
 - **Display backlight:** BLK ← GPIO 14 directly (the display module has its own transistor). Optional stage Q4: GPIO 14 → 1 kΩ → 2N2222A base, not fitted by default.
+- **Test points:** TP1 +5 V, TP2 3.3 V, TP3 GND, bare pads (1 mm holes) in the corridor below R28 / R29, for a multimeter probe or a wire loop; SDA / SCL can be probed on the pads of R24 / R25 (back tab).
 - **Encoder / buttons:** see "Encoder and 5 V input protection". **No RC filter on GA / GB:** the encoder library's interrupt routine expects every rising and falling edge, bounces included, and debounces in software; the two buttons are debounced in the firmware too.
 
 ## Bill of materials (through-hole)
@@ -135,13 +137,13 @@ Silkscreen read on the photo, left column from the USB-C end: GND, 5V, G48, BOOT
 | 1 | MAX31865 module (owned) + low 1 x 8 socket | 0.3 € |
 | 1 | 8-pin FPC board (owned) + 2 x 4 male header + 2 x 4 female socket | 0.5 € |
 | 1 | 3-row right-angle 2.54 mm male header strip ("courbé" 3 x 40, e.g. Funduino, about 1.7 €): cut two 3 x 4 (J2 + J8, and J7) | 1.7 € |
-| 1 | 1 x 2 male header + shunt jumper (JP1) | 0.2 € |
+| 1 | JST SM 2-pin plug and socket pair + about 30 cm of two-wire cable (5 V supply, PWR) | 0.5 € |
 | 3 | JST XH 3-pin headers (J3, J4, J9) | 0.7 € |
 | 4 | 2N2222A transistors (3 SSRs + spare output; backlight stage optional) | 0.6 € |
-| 29 | axial resistors R1 to R29 (33 Ω, 1 kΩ, 4.7 kΩ, 10 kΩ, 15 kΩ, 22 kΩ; R4 with Q4 optional) | 1.5 € |
+| 31 | axial resistors R1 to R31 (33 Ω, 1 kΩ, 4.7 kΩ, 10 kΩ, 15 kΩ, 22 kΩ; R4 with Q4 optional) | 1.5 € |
 | 1 | 1.1 A resettable fuse (radial) | 0.5 € |
-| 1 | 1N5819 diode | 0.2 € |
-| 1 | 470 µF 10 V radial capacitor (105 °C); 2 x 100 nF (C2, C5); 2 x 1 nF (C3, C4) | 1 € |
+| 2 | 1N5819 diodes (D1 reverse protection, D2 ESP32 supply) | 0.4 € |
+| 1 | 470 µF 10 V radial capacitor (105 °C); 3 x 100 nF (C2, C5, C6); 2 x 1 nF (C3, C4) | 1 € |
 | | Dupont female housings + crimp contacts: one 2 x 4 (J2), 1 x 4 x 3 (J8, J7 rows B and C), 1 x 2 x 2 (J7 row A); JST XH 3-pin housings + crimps for the sensors that do not come with an XH plug (Digmesa, pressure sensor) | 2 € |
 | 4 | 3 mm standoffs (existing) + M2.5 screws | 0 |
 | | **Total parts** | **about 6 to 9 €** |

diff --git a/README.md b/README.md
@@ -24,7 +24,7 @@ Status: **working design, nothing has been manufactured.** Placement is to scale
 - Through-hole parts only (no SMD soldering).
 - ESP32-S3 (rotated 90 degrees, USB-C to the left) and MAX31865 module on sockets; FPC adapter board (remote display) on a 2 x 4 socket, its ribbon going straight to the front.
 - SSRs are kept, driven by 2N2222A transistors from the external 5 V supply.
-- Connectors: J2 2 x 4 (5 V + 3 SSRs), J7 3 x 4 right-angle (start + steam buttons, encoder, spare I/O), J8 1 x 4 (pump dimmer, I2C, 3.3 V), 3 x JST XH 3-pin (J3, J4 flow sensors In and Out; J9 pressure sensor, on the tab under J3).
+- Power: 5 V supply on two wires soldered to the PWR pads (JST SM 2-pin plug); D2 lets the USB stay plugged. Connectors: J2 2 x 4 (3 SSRs), J7 3 x 4 right-angle (start + steam buttons, encoder, spare I/O), J8 1 x 4 (pump dimmer, I2C, 3.3 V), 3 x JST XH 3-pin (J3, J4 flow sensors In and Out; J9 pressure sensor, on the tab under J3).
 
 ## To confirm before manufacturing
 See the end of `docs/carrier_spec.md`.
